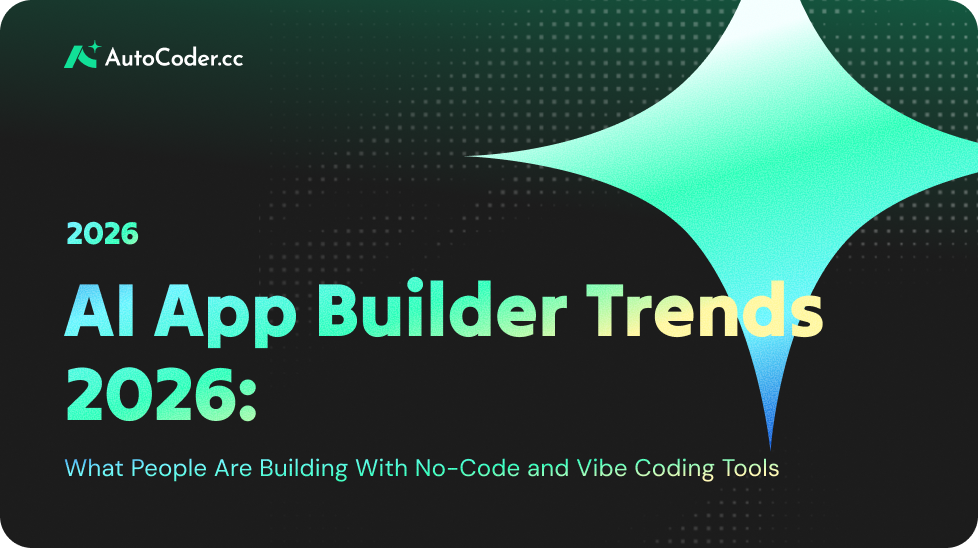
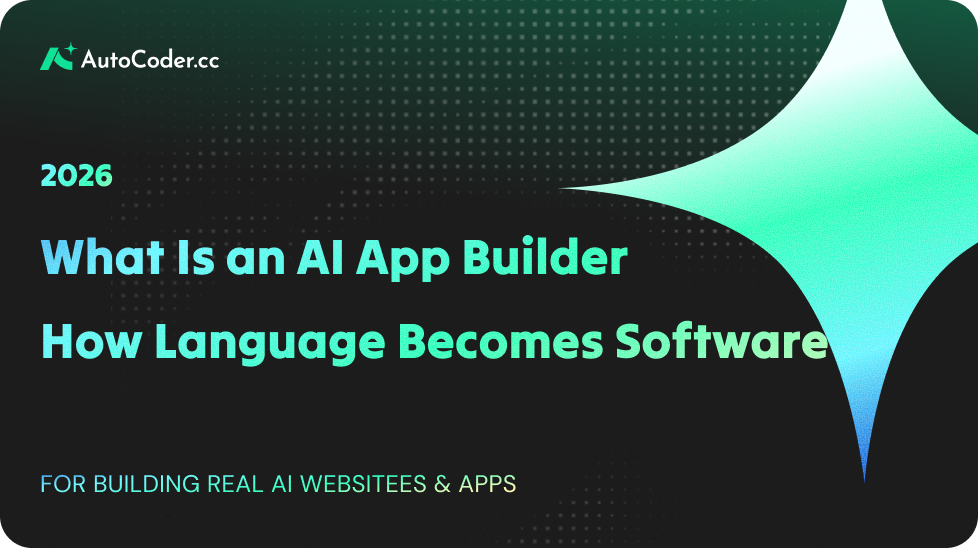
add: vibe code for production blog

diff --git a/style.css b/style.css
@@ -194,6 +194,24 @@ img[src*="/blog/2026-world-cup-fan-hub/06"] { aspect-ratio: 1280 / 802 !importan
 img[src*="/blog/2026-world-cup-fan-hub/07"] { aspect-ratio: 1280 / 802 !important; }
 img[src*="/blog/2026-world-cup-fan-hub/08"] { aspect-ratio: 1280 / 803 !important; }
 
+/* Same fix for what-is-an-ai-app-builder. The "/0" matches 01–03 and
+   excludes cover.png. */
+img[src*="/blog/what-is-an-ai-app-builder/0"] {
+  height: auto !important;
+  width: 100% !important;
+}
+img[src*="/blog/what-is-an-ai-app-builder/01"] { aspect-ratio: 1672 / 941 !important; }
+img[src*="/blog/what-is-an-ai-app-builder/02"] { aspect-ratio: 1672 / 941 !important; }
+img[src*="/blog/what-is-an-ai-app-builder/03"] { aspect-ratio: 2880 / 1624 !important; }
+
+/* Same fix for vibe-coding-production-grade-code — both images are 1280x720.
+   The "/0" matches 01–02 and excludes cover.png. */
+img[src*="/blog/vibe-coding-production-grade-code/0"] {
+  aspect-ratio: 1280 / 720 !important;
+  height: auto !important;
+  width: 100% !important;
+}
+
 [data-page-href*="blog/latest"] .card-group h3,
 [data-page-href*="blog/updates"] .card-group h3,
 [data-page-href*="blog/tutorials"] .card-group h3,